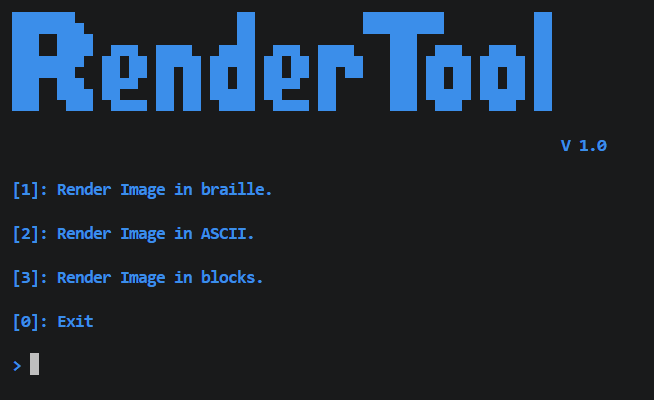
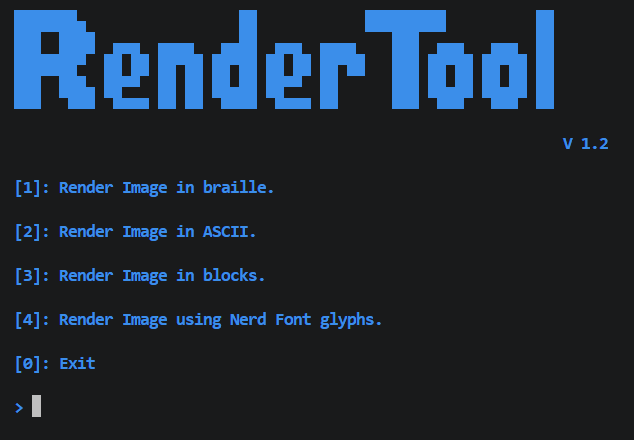
Replace old TUI_ref photo.

diff --git a/README.md b/README.md
@@ -24,5 +24,5 @@ py -m App.TUI # or App.CLI -m <mode> -p <img_path>
 
 ## Refrences
 
-![TUI Ref](assets/TUI_ref.png)
+![TUI Ref](assets/TUI_Ref.png)
 ![A cat rendered with RenderTool](assets/kitty_ascii.png)